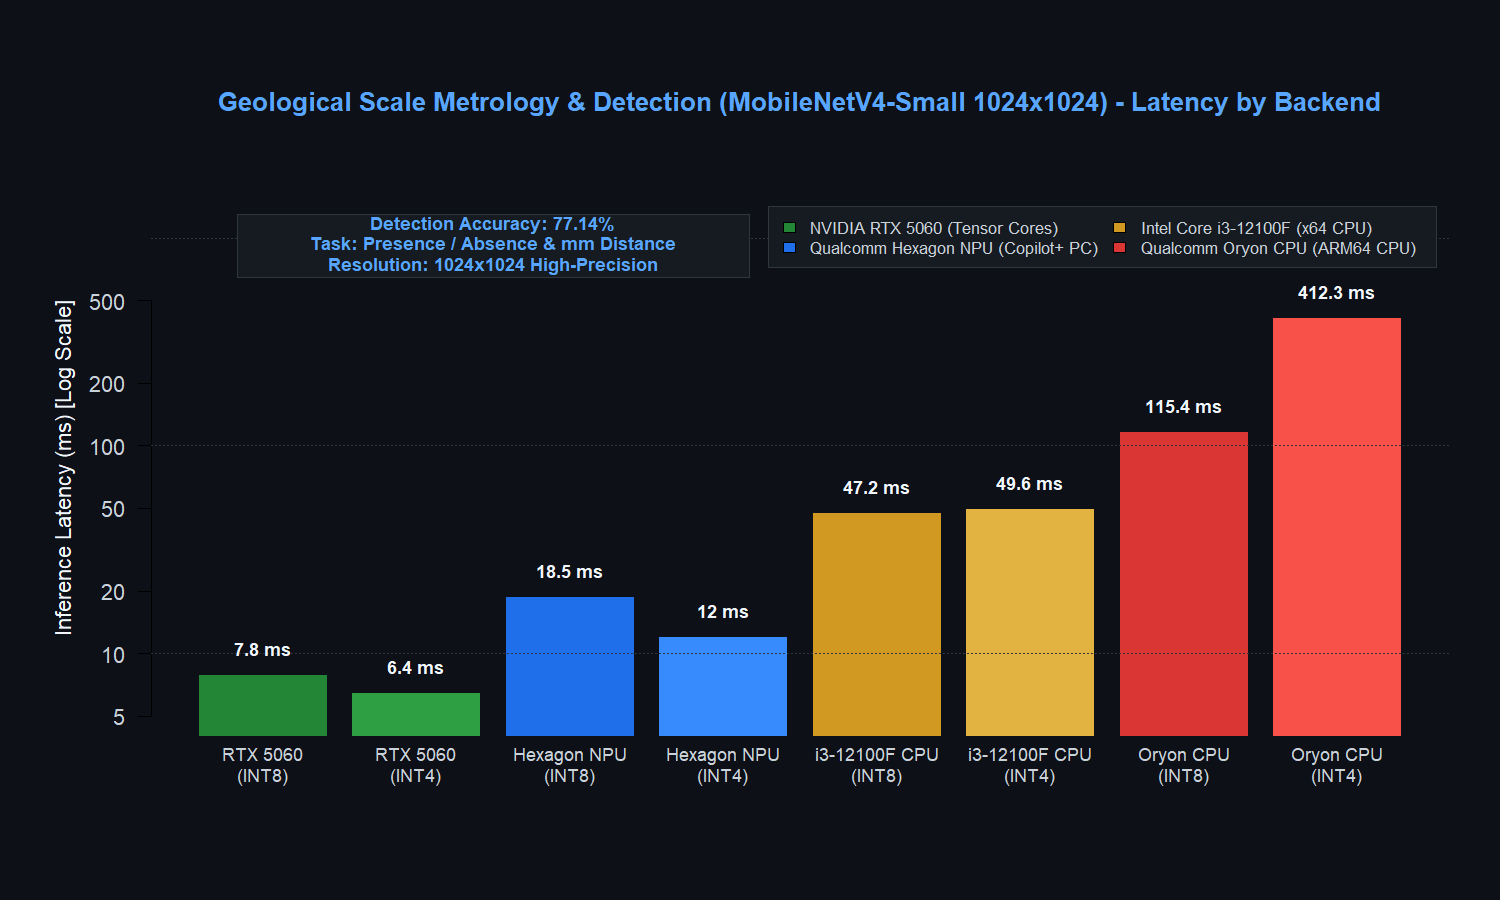
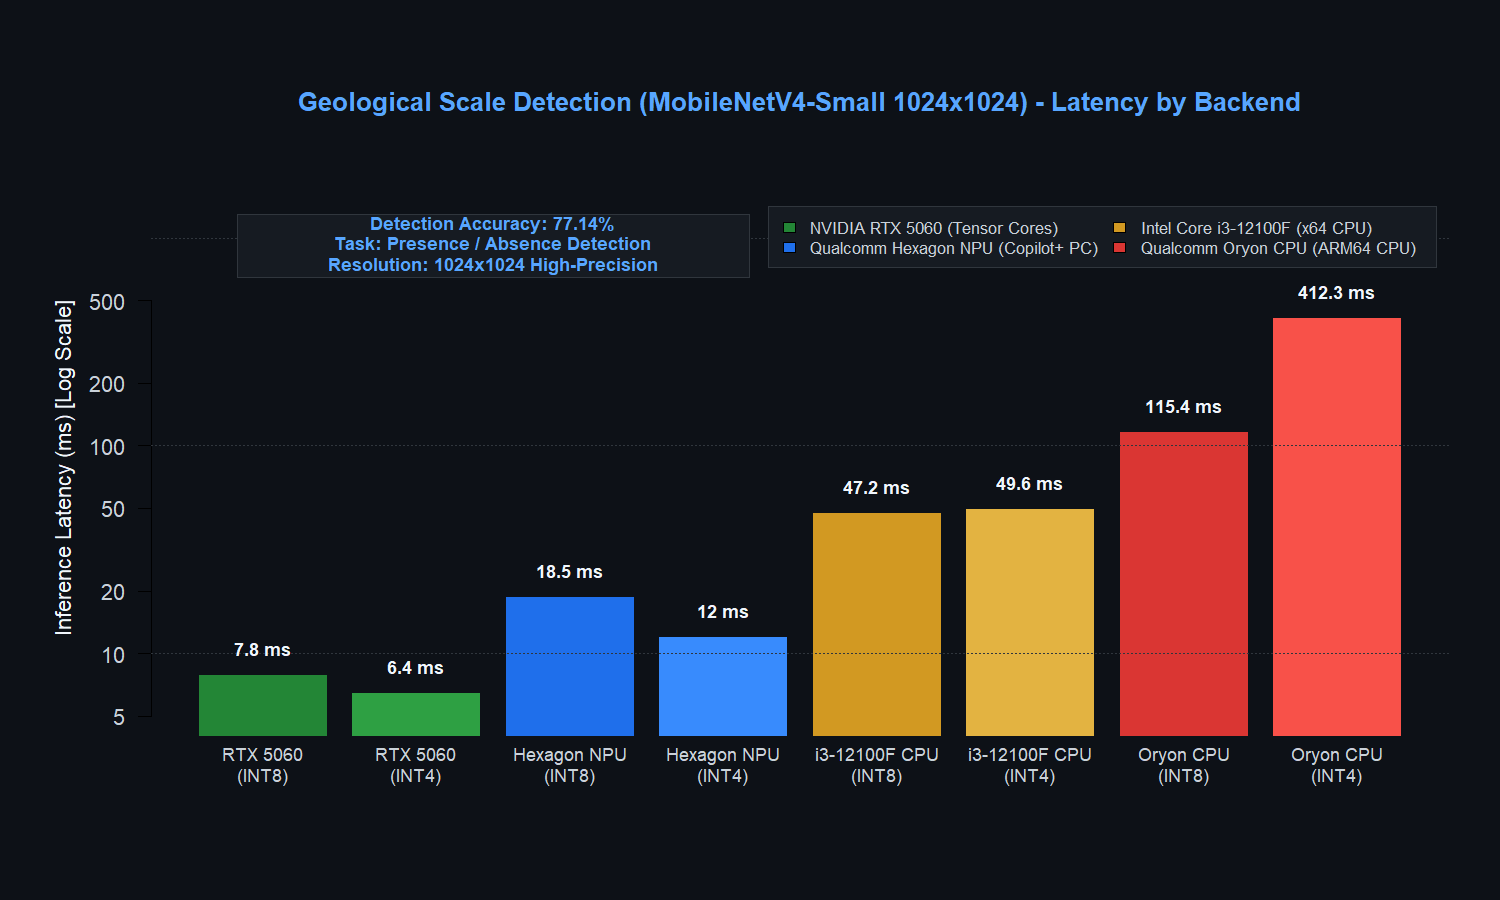
docs(benchmark): designate scale model strictly as Presence / Absence detection

Changed region(s): [[0.1227, 0.0933, 0.92, 0.1244], [0.2147, 0.2489, 0.46, 0.28]]

diff --git a/README.md b/README.md
@@ -309,9 +309,9 @@ Exhaustive on-device measurements collected on the Snapdragon X Plus Copilot+ ul
 | :---: | :---: |
 | ![Hardware Latency Comparison](results/hardware_latency_comparison.png) | ![Pareto Accuracy vs Latency](results/pareto_accuracy_vs_latency.png) |
 
-| 3. Geological Scale Metrology (V4-Small) | 4. Qualcomm Hexagon NPU Stability (100 Runs) |
+| 3. Geological Scale Detection (V4-Small) | 4. Qualcomm Hexagon NPU Stability (100 Runs) |
 | :---: | :---: |
-| ![Geological Scale Metrology](results/scale_metrology_detection_profiling.png) | ![Qualcomm Hexagon NPU Stability](results/snapdragon_npu_stability_distribution.png) |
+| ![Geological Scale Detection](results/scale_metrology_detection_profiling.png) | ![Qualcomm Hexagon NPU Stability](results/snapdragon_npu_stability_distribution.png) |
 
 | 5. QDQ vs. Zero-FP32 Architectural Impact |
 | :---: |
@@ -328,7 +328,7 @@ Exhaustive on-device measurements collected on the Snapdragon X Plus Copilot+ ul
 | INT4 (W4A8) | GPU (Adreno) | 105.4 | 26.42 |
 | INT4 (W4A8)| CPU (Oryon) | 120.2 | 26.42 |
 
-#### 3. MobileNetV4-Small - Scale Metrology (LocalAiManager)
+#### 3. MobileNetV4-Small - Scale Detection (Presence / Absence)
 | Format | Hardware Backend | Latency (ms) | Detection Rate (%) |
 | :---: | :--- | :---: | :--- |
 | **INT8** | **Dedicated NPU (Target)** | **18.5** | 77.14 |
